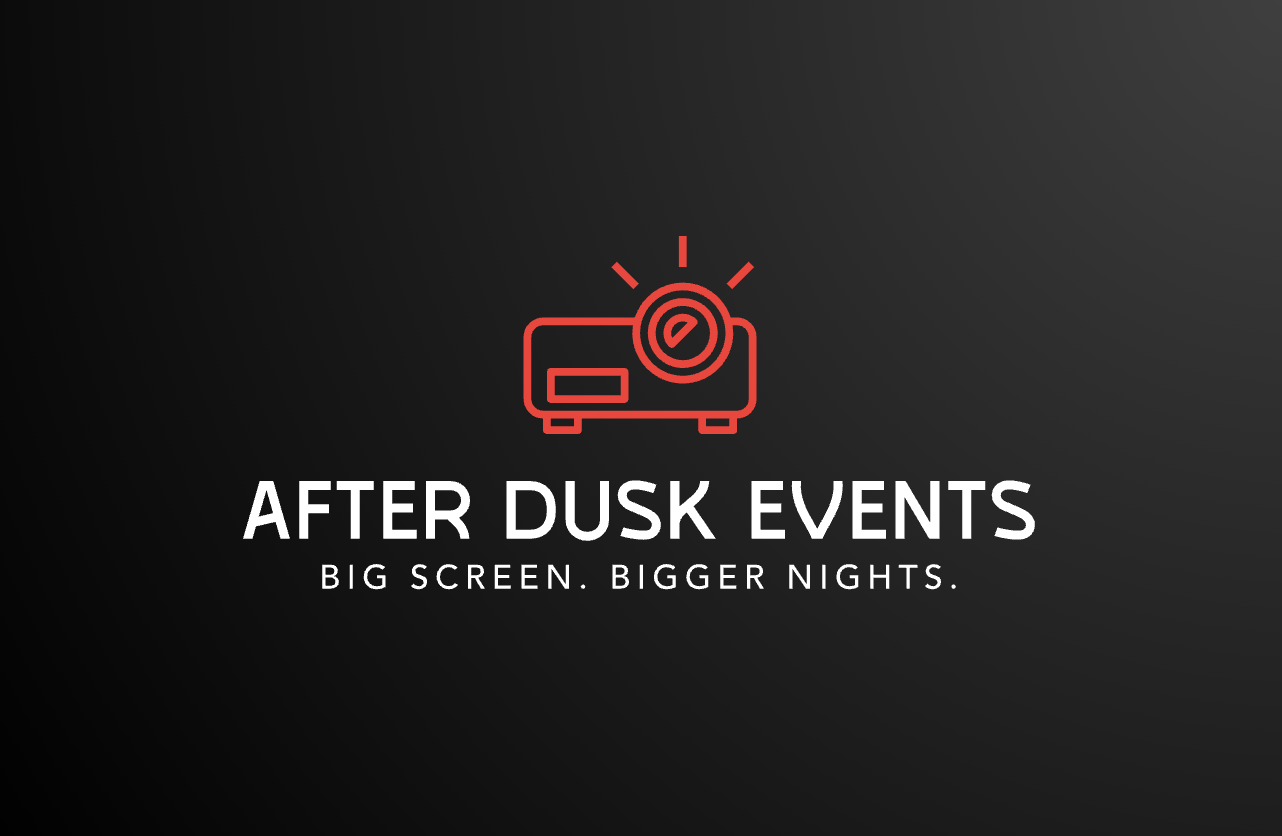
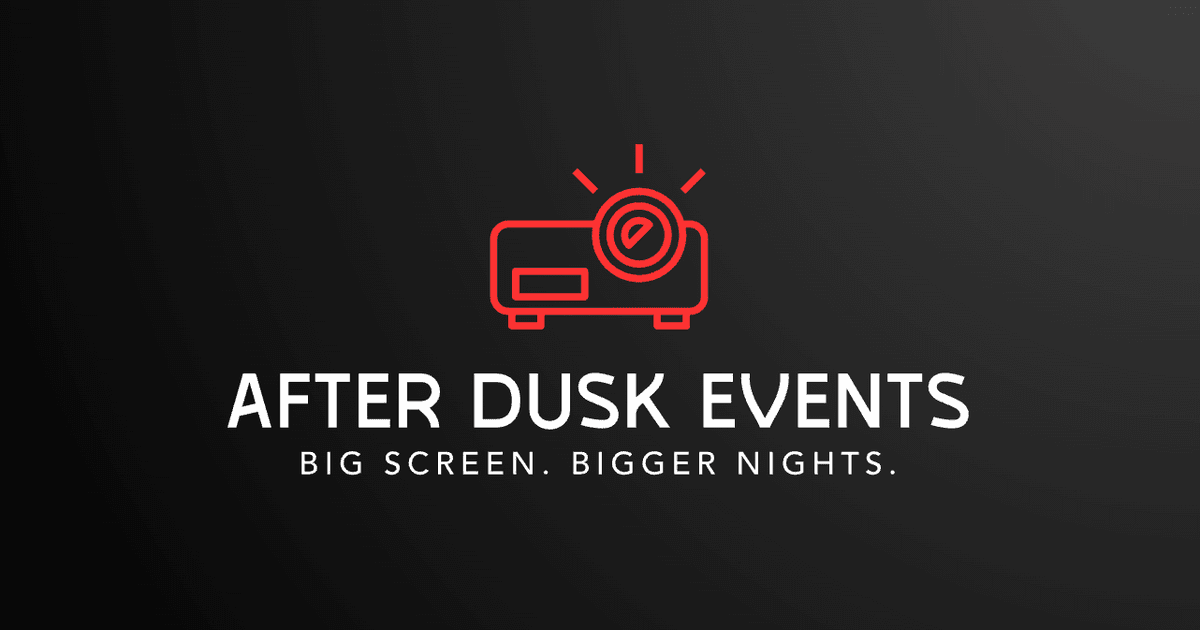
perf(arch): drop dead deps, re-encode images, trim fonts, harden cookie
Wave 2 of the polish pass.

- Delete components/atmosphere/page-atmosphere.tsx (dead per code-quality
  audit); drop @paper-design/shaders-react along with gsap and @gsap/react
  (no live importers).
- public/og-image.png: 1282x836 -> standard 1200x630, 143KB -> 57KB.
- public/logo.png: re-encoded, 143KB -> 73KB.
- Update OG metadata to match new dimensions.
- Trim Montserrat to 400/500/700 (was 5 weights). Body and heading are both
  Montserrat in this stack so we keep the weights body+button copy uses.
- Stabilize sitemap lastModified to VERCEL_GIT_COMMIT_DATE so Google stops
  ignoring the lastmod attribute on every crawl.
- proxy.ts: ade-geo cookie httpOnly: true, sameSite: strict (no client
  reads anywhere in the repo).
- gitignore the scheduled_tasks.lock harness file.

Changed region(s): [[0.185, 0.573, 0.8325, 0.754], [0.4008, 0.2413, 0.6167, 0.5429]]

diff --git a/app/sitemap.ts b/app/sitemap.ts
@@ -2,46 +2,58 @@ import type { MetadataRoute } from "next";
 import { cities } from "@/lib/cities";
 import { audioTiers } from "@/lib/packages";
 
+// Build-time stable lastModified. Google ignores noisy lastmods that change
+// every request. We tie this to the deployed commit (or fall back to build
+// epoch on local dev).
+const BUILD_LAST_MODIFIED = (() => {
+  const d = process.env.VERCEL_GIT_COMMIT_DATE;
+  if (d) {
+    const parsed = new Date(d);
+    if (!Number.isNaN(parsed.getTime())) return parsed;
+  }
+  return new Date();
+})();
+
 export default function sitemap(): MetadataRoute.Sitemap {
   const base = "https://afterduskevents.com";
-  const now = new Date();
+  const lastModified = BUILD_LAST_MODIFIED;
 
   return [
-    { url: base, lastModified: now, changeFrequency: "monthly", priority: 1 },
-    { url: `${base}/packages`, lastModified: now, changeFrequency: "monthly", priority: 0.9 },
+    { url: base, lastModified, changeFrequency: "monthly", priority: 1 },
+    { url: `${base}/packages`, lastModified, changeFrequency: "monthly", priority: 0.9 },
     ...audioTiers.map((t) => ({
       url: `${base}/packages/${t.slug}`,
-      lastModified: now,
+      lastModified,
       changeFrequency: "monthly" as const,
       priority: 0.8,
     })),
-    { url: `${base}/add-ons`, lastModified: now, changeFrequency: "monthly", priority: 0.8 },
-    { url: `${base}/faq`, lastModified: now, changeFrequency: "monthly", priority: 0.8 },
-    { url: `${base}/contact`, lastModified: now, changeFrequency: "yearly", priority: 0.9 },
+    { url: `${base}/add-ons`, lastModified, changeFrequency: "monthly", priority: 0.8 },
+    { url: `${base}/faq`, lastModified, changeFrequency: "monthly", priority: 0.8 },
+    { url: `${base}/contact`, lastModified, changeFrequency: "yearly", priority: 0.9 },
     // Service-area landing pages
-    { url: `${base}/serving`, lastModified: now, changeFrequency: "monthly", priority: 0.7 },
+    { url: `${base}/serving`, lastModified, changeFrequency: "monthly", priority: 0.7 },
     ...cities.map((c) => ({
       url: `${base}/serving/${c.slug}`,
-      lastModified: now,
+      lastModified,
       changeFrequency: "monthly" as const,
       priority: c.slug === "canton" ? 0.85 : 0.75,
     })),
     // Guides
-    { url: `${base}/guides`, lastModified: now, changeFrequency: "monthly", priority: 0.6 },
+    { url: `${base}/guides`, lastModified, changeFrequency: "monthly", priority: 0.6 },
     {
       url: `${base}/guides/outdoor-movie-rental-cost-michigan`,
-      lastModified: now,
+      lastModified,
       changeFrequency: "monthly",
       priority: 0.8,
     },
     {
       url: `${base}/guides/screen-size-for-guest-count`,
-      lastModified: now,
+      lastModified,
       changeFrequency: "monthly",
       priority: 0.7,
     },
     // Legal
-    { url: `${base}/privacy`, lastModified: now, changeFrequency: "yearly", priority: 0.3 },
-    { url: `${base}/terms`, lastModified: now, changeFrequency: "yearly", priority: 0.3 },
+    { url: `${base}/privacy`, lastModified, changeFrequency: "yearly", priority: 0.3 },
+    { url: `${base}/terms`, lastModified, changeFrequency: "yearly", priority: 0.3 },
   ];
 }

diff --git a/app/layout.tsx b/app/layout.tsx
@@ -29,7 +29,10 @@ const inter = Inter({
 const montserrat = Montserrat({
   subsets: ["latin"],
   variable: "--font-montserrat",
-  weight: ["400", "500", "600", "700", "800"],
+  // Trimmed from 5 weights to 3 — semibold/bold cover heading + button copy,
+  // regular covers body. 600 is synthesized from 500+700 if a stray utility
+  // class hits it; the visual delta is imperceptible in this stack.
+  weight: ["400", "500", "700"],
   display: "swap",
 });
 
@@ -69,7 +72,7 @@ export const metadata: Metadata = {
     title: "Outdoor Cinema and Event Rentals | After Dusk Events | Canton, MI",
     description:
       "Premium outdoor cinema and event rentals for private events in Southeast Michigan. 4K theater-quality projection, 30-foot screen, concert-grade sound, veteran-owned.",
-    images: [{ url: "/og-image.png", width: 1282, height: 836, alt: "After Dusk Events" }],
+    images: [{ url: "/og-image.png", width: 1200, height: 630, alt: "After Dusk Events" }],
   },
   twitter: {
     card: "summary_large_image",

diff --git a/proxy.ts b/proxy.ts
@@ -22,8 +22,8 @@ export function proxy(req: NextRequest) {
       lng: Number(lng),
     });
     res.cookies.set("ade-geo", value, {
-      httpOnly: false, // server components read; client can read too
-      sameSite: "lax",
+      httpOnly: true,
+      sameSite: "strict",
       path: "/",
       maxAge: 60 * 60, // 1 hour
     });
